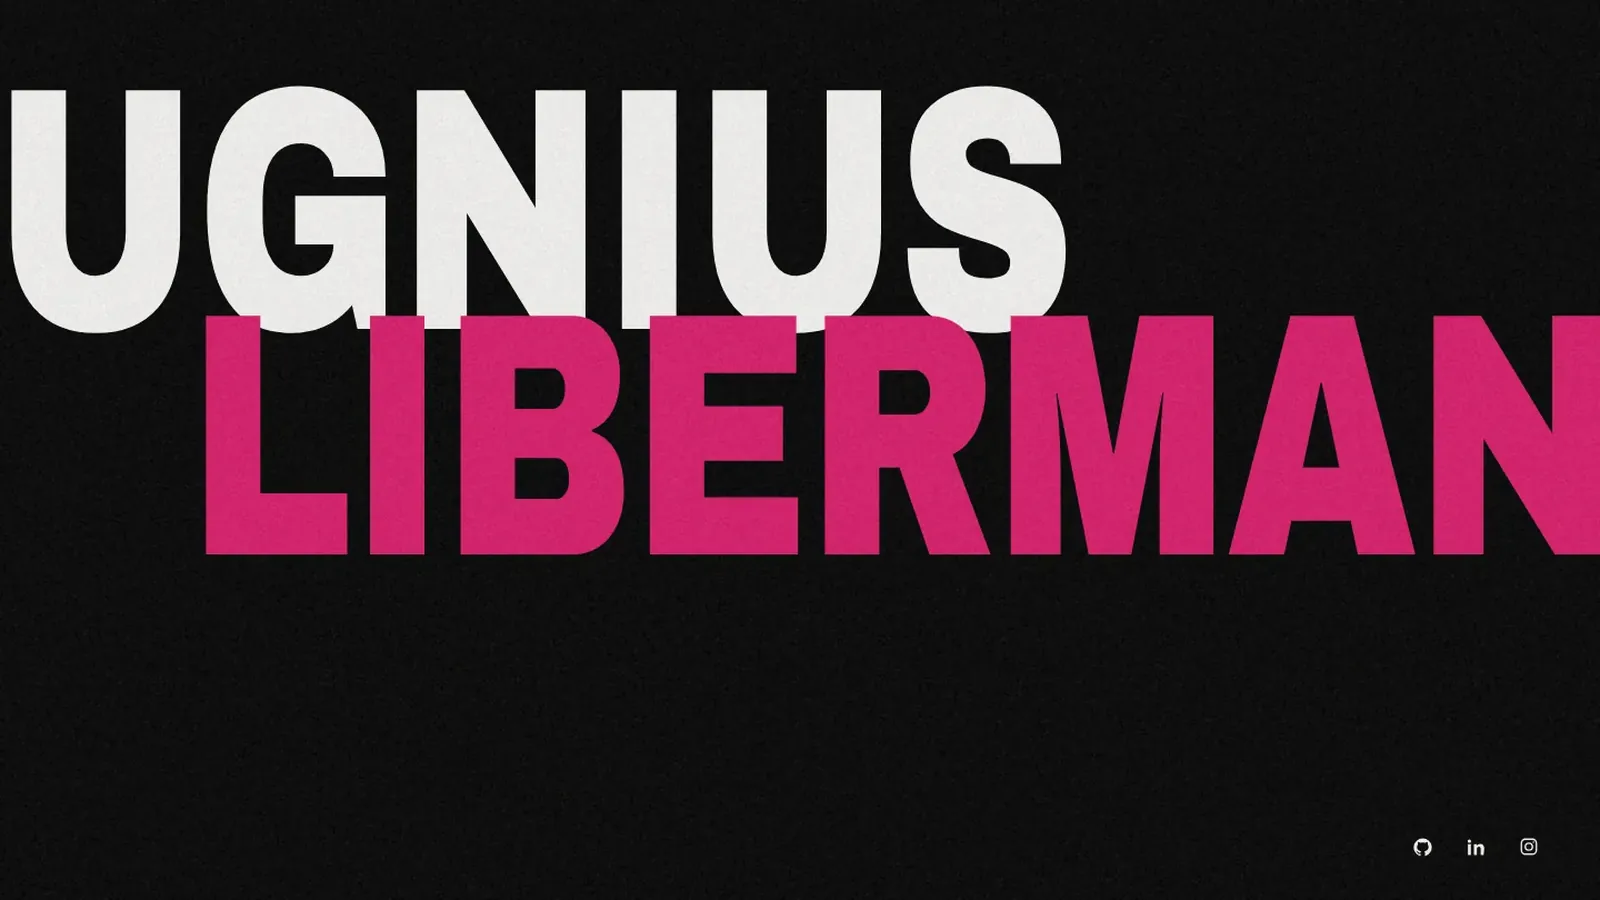
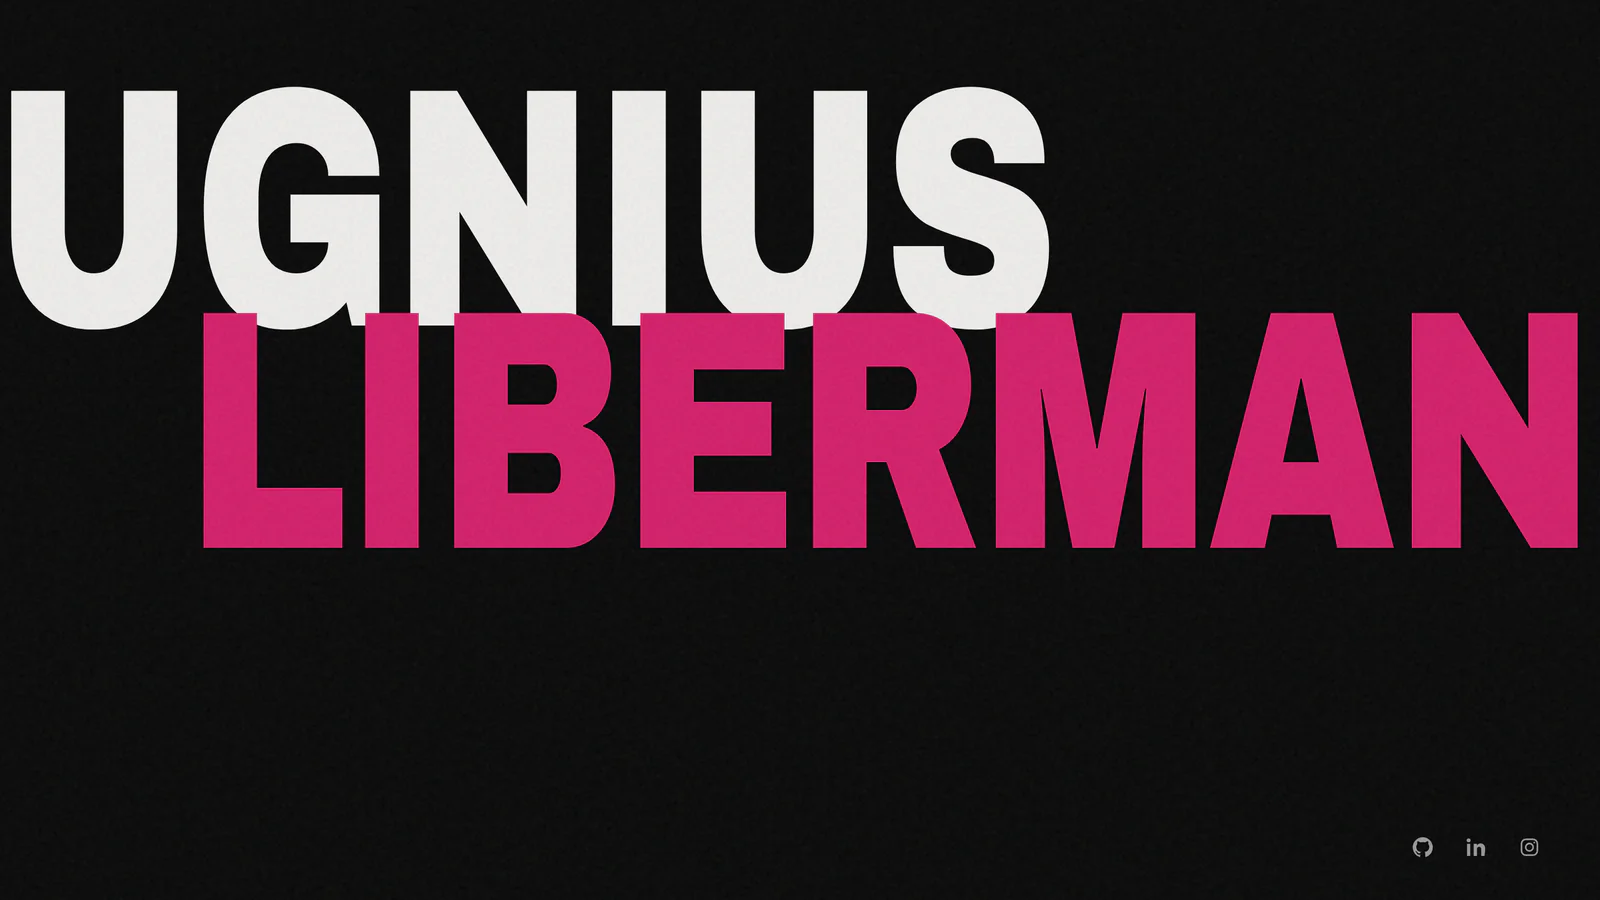
fix(images): capture the This Site hero at double resolution
Replace the 1440px screenshot with a genuine 2880px browser capture at the same CSS viewport. Regenerate the 800px and 1600px WebP variants and update the intrinsic dimensions.

Add regression checks for actual asset sizes, responsive wiring and HTTP delivery. Leave the Surface Runoff figures and social-card framing unchanged.

diff --git a/tests/mobile.spec.ts b/tests/mobile.spec.ts
@@ -86,6 +86,60 @@ test('gallery opens the original image without covering the project', async ({ p
   await expect(page).toHaveURL(/projects\/surface-runoff/);
 });
 
+// The shipped WebP assets use VP8 (lossy) or VP8X (extended) chunks whose
+// headers carry the pixel dimensions. Read from the shipped bytes so the
+// assertions below describe the asset itself.
+const webpSize = (path: string) => {
+  const bytes = readFileSync(new URL(`../dist${path}`, import.meta.url));
+  expect(bytes.toString('ascii', 0, 4), `${path} RIFF`).toBe('RIFF');
+  expect(bytes.toString('ascii', 8, 12), `${path} WEBP`).toBe('WEBP');
+  const chunk = bytes.toString('ascii', 12, 16);
+  if (chunk === 'VP8X') {
+    return { width: bytes.readUIntLE(24, 3) + 1, height: bytes.readUIntLE(27, 3) + 1 };
+  }
+  expect(chunk, path).toBe('VP8 ');
+  expect(bytes.subarray(23, 26), `${path} VP8 start code`).toEqual(Buffer.from([0x9d, 0x01, 0x2a]));
+  return { width: bytes.readUInt16LE(26) & 0x3fff, height: bytes.readUInt16LE(28) & 0x3fff };
+};
+
+test('This Site hero ships a 2880x1620 export with honest responsive variants', async ({ page }) => {
+  // Captured at a 1440x810 CSS viewport with deviceScaleFactor 2.
+  expect(webpSize('/screenshots/this-site-card.webp')).toEqual({ width: 2880, height: 1620 });
+  const variants = {
+    '/screenshots/this-site-card-800.webp': 800,
+    '/screenshots/this-site-card-1600.webp': 1600,
+  };
+  for (const [path, descriptor] of Object.entries(variants)) {
+    // The srcset width descriptor is the file's real pixel width, not a label.
+    expect(webpSize(path), path).toEqual({ width: descriptor, height: descriptor * 9 / 16 });
+  }
+
+  // ProjectVisual reserves the full export's intrinsic box in the built page.
+  const projectPage = readDist('/projects/this-site/index.html');
+  expect(projectPage).toMatch(/<img src="\/screenshots\/this-site-card\.webp"[^>]*width="2880" height="1620"/);
+
+  // The homepage card offers both variants beside the full file.
+  await page.goto('/');
+  await page.evaluate(() => document.fonts.ready);
+  const card = page.locator('a[href="/projects/this-site/"] .product-shot__img').first();
+  await expect(card).toHaveAttribute('src', '/screenshots/this-site-card.webp');
+  const srcset = (await card.getAttribute('srcset')) ?? '';
+  for (const [path, descriptor] of Object.entries(variants)) {
+    expect(srcset, path).toContain(`${path} ${descriptor}w`);
+  }
+
+  for (const path of ['/screenshots/this-site-card.webp', ...Object.keys(variants)]) {
+    const response = await page.request.get(path);
+    expect(response.status(), path).toBe(200);
+    expect(response.headers()['content-type'], path).toBe('image/webp');
+  }
+
+  // Surface Runoff is untouched: the 894px card cannot claim the 1400px gallery
+  // figure, which is a different frame (t=0.00 min) from the card's t=4.50 min.
+  expect(webpSize('/images/projects/surface-runoff-card.webp')).toEqual({ width: 894, height: 503 });
+  expect(webpSize('/images/projects/surface-runoff-water-depth.webp')).toEqual({ width: 1400, height: 783 });
+});
+
 test('mobile anchor navigation clears the fixed header', async ({ page }) => {
   await page.setViewportSize({ width: 390, height: 844 });
   await page.goto('/');
